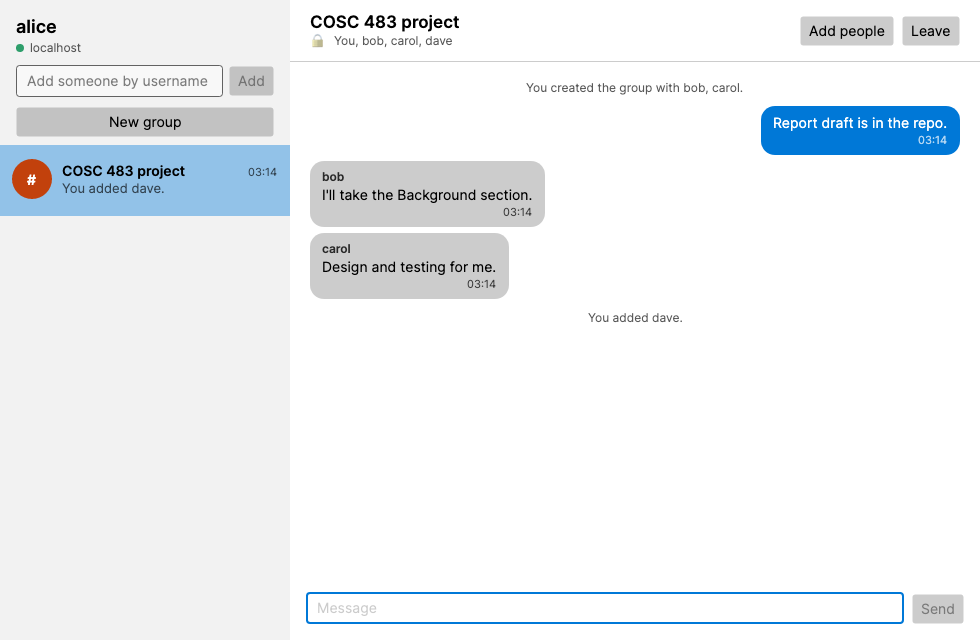
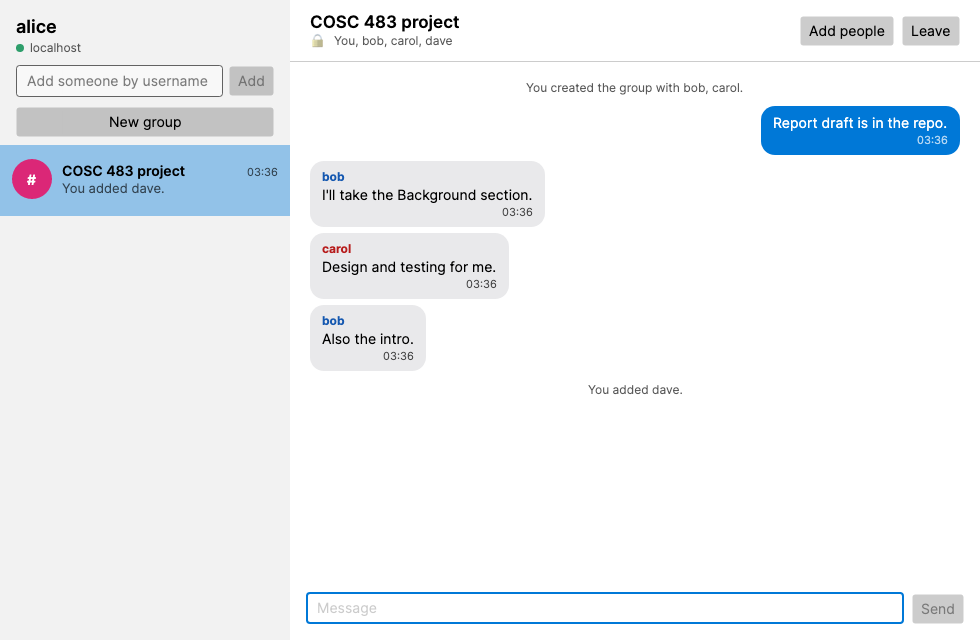
Give each group member a distinct, high-contrast name color
- SenderColors: 12-color palettes for light and dark mode, ordered so
  neighbors differ most in hue. Every color has at least 5:1 contrast
  against the incoming bubble and window background of its theme.
- A chat hands out colors in name order, so everyone in a group of up to
  12 gets a different one; nobody's color changes while the chat is open.
  Names switch palettes when the system theme changes.
- Incoming bubbles get explicit light/dark colors (IncomingBubbleBrush);
  names are bold instead of faded.
- Tests: distinct colors per sender, dark-mode switch, and a WCAG contrast
  check of both palettes against the app's real bubble colors. Updated
  screenshots plus a dark-mode one.

diff --git a/src/E2ee.App/ViewModels/ShellViewModel.cs b/src/E2ee.App/ViewModels/ShellViewModel.cs
@@ -67,6 +67,7 @@ public sealed partial class ShellViewModel(Messenger messenger) : ViewModelBase,
 
     public async Task StartAsync(bool push = true)
     {
+        if (Avalonia.Application.Current is { } app) app.ActualThemeVariantChanged += OnThemeChanged;
         foreach (var c in await messenger.ConversationsAsync())
             Contacts.Add(c.Group is { } g ? new ContactViewModel(g, c.Last) : new ContactViewModel(c.Contact!, c.Last));
         await SyncNowAsync();
@@ -75,6 +76,7 @@ public sealed partial class ShellViewModel(Messenger messenger) : ViewModelBase,
 
     public void Dispose()
     {
+        if (Avalonia.Application.Current is { } app) app.ActualThemeVariantChanged -= OnThemeChanged;
         _stop.Cancel();
         messenger.Dispose();
     }
@@ -122,7 +124,35 @@ public sealed partial class ShellViewModel(Messenger messenger) : ViewModelBase,
             : await messenger.HistoryAsync(contact.Username, 200);
         if (Selected != contact) return; // the user clicked elsewhere meanwhile
         Messages.Clear();
-        foreach (var m in history) Messages.Add(new MessageViewModel(m));
+        _senderSlots.Clear();
+        // Everyone in the chat gets a color up front, in name order, so colors don't depend on who spoke first.
+        if (contact.IsGroup)
+            foreach (var person in contact.Members.Concat(history.Where(m => !m.Outgoing && !m.IsEvent).Select(m => m.Peer)).Distinct().Order())
+                SlotFor(person);
+        foreach (var m in history) AddMessage(m);
+    }
+
+    /// <summary>Color slots of the people in the open chat. Nobody's color changes while it stays open.</summary>
+    private readonly Dictionary<string, int> _senderSlots = new();
+
+    private int SlotFor(string person)
+    {
+        if (!_senderSlots.TryGetValue(person, out var slot))
+            _senderSlots[person] = slot = _senderSlots.Count % SenderColors.Count;
+        return slot;
+    }
+
+    private void AddMessage(StoredMessage m)
+    {
+        var vm = new MessageViewModel(m);
+        if (vm.ShowSender) vm.SetSenderSlot(SlotFor(m.Peer));
+        Messages.Add(vm);
+    }
+
+    /// <summary>Light and dark mode use different palettes.</summary>
+    private void OnThemeChanged(object? sender, EventArgs e)
+    {
+        foreach (var m in Messages.Where(m => m.ShowSender)) m.SetSenderSlot(m.SenderSlot);
     }
 
     private bool CanSend() => CanCompose && !string.IsNullOrWhiteSpace(Draft);
@@ -136,7 +166,7 @@ public sealed partial class ShellViewModel(Messenger messenger) : ViewModelBase,
         try
         {
             var msg = peer.IsGroup ? await messenger.SendGroupAsync(peer.GroupId!, text) : await messenger.SendAsync(peer.Username, text);
-            if (Selected == peer) Messages.Add(new MessageViewModel(msg));
+            if (Selected == peer) AddMessage(msg);
             peer.Update(msg);
             MoveToTop(peer);
             RelayOnline = msg.Status != MessageStatus.Pending;
@@ -355,7 +385,7 @@ public sealed partial class ShellViewModel(Messenger messenger) : ViewModelBase,
         if ((await messenger.GroupHistoryAsync(group.GroupId!, 1)).LastOrDefault() is not { } last) return;
         group.Update(last);
         MoveToTop(group);
-        if (Selected == group && Messages.All(m => m.Id != last.Id)) Messages.Add(new MessageViewModel(last));
+        if (Selected == group && Messages.All(m => m.Id != last.Id)) AddMessage(last);
     }
 
     private void GroupStateChanged(ContactViewModel group)
@@ -403,7 +433,7 @@ public sealed partial class ShellViewModel(Messenger messenger) : ViewModelBase,
                 var contact = ConversationFor(msg);
                 contact.Update(msg);
                 MoveToTop(contact);
-                if (Selected == contact) Messages.Add(new MessageViewModel(msg));
+                if (Selected == contact) AddMessage(msg);
                 else contact.Unread++;
             }
             foreach (var user in result.IdentityChanges) MarkIdentityChanged(user);

diff --git a/tests/E2ee.Tests/AppTests.cs b/tests/E2ee.Tests/AppTests.cs
@@ -368,6 +368,13 @@ public sealed class AppTests : IDisposable
         Assert.Equal(["bob", "carol"], shell.Messages.Where(m => m.ShowSender).Select(m => m.Sender));
         Assert.Equal("carol: Design and testing for me.", group.Preview);
 
+        // Each person's name has their own color, the same on every message.
+        await bob.SendGroupAsync(group.GroupId!, "Also the intro.");
+        await shell.SyncNowAsync();
+        var names = shell.Messages.Where(m => m.ShowSender).ToList();
+        Assert.Equal(2, names.Select(m => m.SenderBrush).Distinct().Count());
+        Assert.Equal(names[0].SenderBrush, names[2].SenderBrush);
+
         // Adding someone shows up as a line in the chat and in the header.
         shell.OpenAddMembersCommand.Execute(null);
         shell.GroupForm!.Members = "dave";
@@ -376,6 +383,15 @@ public sealed class AppTests : IDisposable
         Assert.Equal("You added dave.", shell.Messages.Last().Text);
         Assert.True(shell.Messages.Last().IsEvent);
         Screenshot(window, "10-group-chat");
+
+        // Dark mode switches to the light-on-dark palette; people keep their slots.
+        var bobSlot = names[0].SenderSlot;
+        Application.Current!.RequestedThemeVariant = Avalonia.Styling.ThemeVariant.Dark;
+        Dispatcher.UIThread.RunJobs();
+        Assert.Equal(SenderColors.Dark[bobSlot], ((Avalonia.Media.ISolidColorBrush)names[0].SenderBrush!).Color.ToString().Replace("#ff", "#").ToUpperInvariant());
+        Screenshot(window, "11-group-chat-dark");
+        Application.Current.RequestedThemeVariant = Avalonia.Styling.ThemeVariant.Light;
+        Dispatcher.UIThread.RunJobs();
 
         // A group someone else creates appears with an unread badge.
         var other = await bob.CreateGroupAsync("Lunch", ["alice"]);
@@ -401,6 +417,38 @@ public sealed class AppTests : IDisposable
         Assert.Contains(shell2.Contacts, c => c.Title == "COSC 483 project" && c.Active);
         Assert.Contains(shell2.Contacts, c => c.Title == "Lunch" && !c.Active);
         reopened.Dispose();
+    }
+
+    [AvaloniaFact]
+    public void SenderColorsStandOutInBothThemes()
+    {
+        static double Luminance(Avalonia.Media.Color c)
+        {
+            static double Channel(byte v) { var x = v / 255.0; return x <= 0.03928 ? x / 12.92 : Math.Pow((x + 0.055) / 1.055, 2.4); }
+            return 0.2126 * Channel(c.R) + 0.7152 * Channel(c.G) + 0.0722 * Channel(c.B);
+        }
+        static double Contrast(Avalonia.Media.Color a, Avalonia.Media.Color b)
+        {
+            var (x, y) = (Luminance(a), Luminance(b));
+            return (Math.Max(x, y) + 0.05) / (Math.Min(x, y) + 0.05);
+        }
+
+        foreach (var (theme, palette, window) in new[]
+                 {
+                     (Avalonia.Styling.ThemeVariant.Light, SenderColors.Light, Avalonia.Media.Colors.White),
+                     (Avalonia.Styling.ThemeVariant.Dark, SenderColors.Dark, Avalonia.Media.Color.Parse("#1C1C1E")),
+                 })
+        {
+            Assert.True(Application.Current!.TryGetResource("IncomingBubbleBrush", theme, out var res));
+            var bubble = ((Avalonia.Media.ISolidColorBrush)res!).Color;
+            Assert.Equal(SenderColors.Count, palette.Distinct().Count());
+            foreach (var hex in palette)
+            {
+                var c = Avalonia.Media.Color.Parse(hex);
+                Assert.True(Contrast(c, bubble) >= 4.5, $"{hex} on the {theme} bubble: {Contrast(c, bubble):F2}:1");
+                Assert.True(Contrast(c, window) >= 4.5, $"{hex} on the {theme} window: {Contrast(c, window):F2}:1");
+            }
+        }
     }
 
     [AvaloniaFact]

diff --git a/src/E2ee.App/ViewModels/SenderColors.cs b/src/E2ee.App/ViewModels/SenderColors.cs
@@ -1,0 +1,30 @@
+using Avalonia;
+using Avalonia.Media;
+using Avalonia.Styling;
+
+namespace E2ee.App.ViewModels;
+
+/// <summary>
+/// Colors for senders' names in group chats. Each palette has at least 5:1 contrast (WCAG AA
+/// asks 4.5:1 for small text) against the incoming bubble and the window background of its
+/// theme; AppTests checks this. Slots are ordered so neighbors differ most in hue, and a chat
+/// hands them out in order, so a small group always gets clearly different colors.
+/// </summary>
+public static class SenderColors
+{
+    // blue, red, green, purple, orange, teal, pink, ochre, indigo, brown, cyan, olive
+    public static readonly string[] Light =
+        ["#1558B0", "#B71C1C", "#276B2B", "#7B1FA2", "#A33F00", "#00695C", "#AD1457", "#755A00", "#3949AB", "#6D4C41", "#00616B", "#4F5A00"];
+
+    public static readonly string[] Dark =
+        ["#64B5F6", "#FF9A90", "#81C784", "#D7A6E0", "#FFAB66", "#5CC9BE", "#F48FB1", "#FFD54F", "#AEB6E6", "#C8B8B2", "#4DD0E1", "#C5E17A"];
+
+    public static int Count => Light.Length;
+
+    private static readonly IBrush[] LightBrushes = Light.Select(c => (IBrush)SolidColorBrush.Parse(c)).ToArray();
+    private static readonly IBrush[] DarkBrushes = Dark.Select(c => (IBrush)SolidColorBrush.Parse(c)).ToArray();
+
+    public static bool IsDark => Application.Current?.ActualThemeVariant == ThemeVariant.Dark;
+
+    public static IBrush Brush(int slot) => (IsDark ? DarkBrushes : LightBrushes)[slot % Count];
+}

diff --git a/src/E2ee.App/ViewModels/ItemViewModels.cs b/src/E2ee.App/ViewModels/ItemViewModels.cs
@@ -118,6 +118,17 @@ public sealed partial class MessageViewModel(StoredMessage m) : ViewModelBase
     public string Sender { get; } = m.Peer;
     public bool ShowSender { get; } = m.GroupId is not null && !m.Outgoing && !m.IsEvent;
 
+    /// <summary>The sender's color slot in this chat (see <see cref="SenderColors"/>).</summary>
+    public int SenderSlot { get; private set; }
+
+    [ObservableProperty] private IBrush? _senderBrush;
+
+    public void SetSenderSlot(int slot)
+    {
+        SenderSlot = slot;
+        SenderBrush = SenderColors.Brush(slot);
+    }
+
     private readonly string _time = Display.Time(m.SentAt);
 
     [ObservableProperty]
